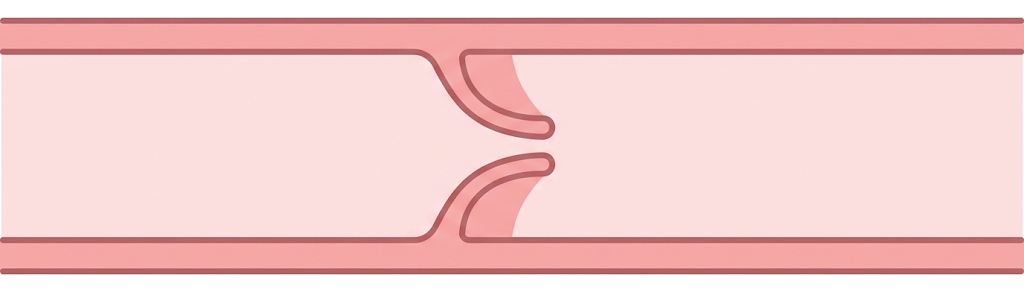
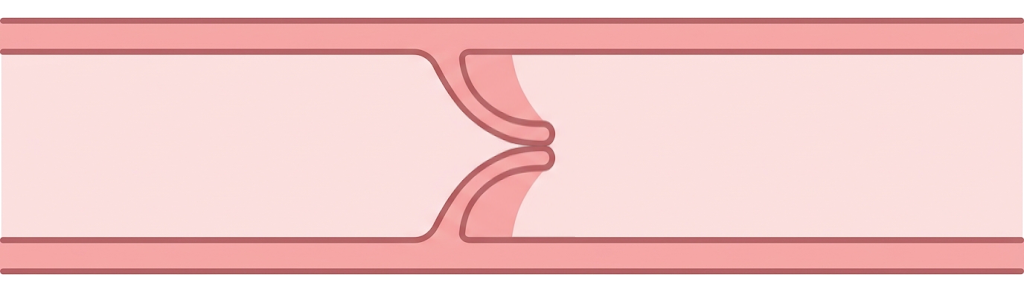
赤血球の旅・順番ならべを足す／肺静脈を肺につなぐ・④の角を血管どおりに・弁をぴったり閉じる・8画面のメニューを1280幅で1行に

Changed region(s): [[0.4375, 0.3414, 0.5625, 0.6517]]

diff --git a/index.html b/index.html
@@ -27,10 +27,13 @@ b,strong{word-break:keep-all;overflow-wrap:anywhere}
 header{display:flex;align-items:center;gap:14px;flex-wrap:wrap;padding:12px 16px 6px}
 header h1{font-family:var(--f-head);font-weight:900;font-size:1.35rem;margin:0;color:var(--gInk)}
 .steps{display:flex;gap:6px;flex-wrap:wrap;margin-left:auto}
-@media (max-width:1100px){.steps{margin-left:0}}   /* 見出しの下に回ったときは左から並べる */
+@media (max-width:1250px){.steps{margin-left:0}}   /* 見出しの下に回ったときは左から並べる */
+@media (max-width:1250px) and (min-width:861px){.fig svg,#bodySvg{max-height:calc(100vh - 175px)!important}}   /* メニューが2段目に回った分、図を低くして1画面に収める */
+@media (max-width:1010px) and (min-width:861px){.fig svg,#bodySvg{max-height:calc(100vh - 225px)!important}}   /* メニュー自体も2段になる幅 */
 .steps button{font-family:var(--f-head);font-weight:900;font-size:.95rem;border:3px solid transparent;border-radius:999px;
   background:var(--panel);color:var(--ink);padding:8px 14px;min-height:44px;cursor:pointer}
 .steps button[aria-current="step"]{border-color:var(--line)}
+@media (max-width:1400px){.steps{gap:4px} .steps button{font-size:.88rem;padding:8px 10px}}   /* 画面が8つ：1280幅でも見出しと1行に収める */
 button{transition:transform .08s}
 button:active{transform:translateY(4px)}
 button:focus-visible{outline:3px solid var(--ink);outline-offset:2px}
@@ -78,7 +81,7 @@ main{padding:6px 16px 20px}
 #heartX .narrow{display:none}
 @media (max-width:1100px){#heartX .wide{display:none} #heartX .narrow{display:inline}}
 @media (max-width:600px){
-  #circ .st1 text,#circ5 .st1 text{font-size:15px} #circ .st7 text{font-size:14px} #circ .st7 text[font-size="12"]{font-size:13.5px}}
+  #circ .st1 text,#circ5 .st1 text,#circ7 .st1 text,#circ8 .st1 text{font-size:15px} #circ .st7 text{font-size:14px} #circ .st7 text[font-size="12"]{font-size:13.5px}}
 #heartX.ph1 .ring.atrium,#heartX.ph2 .ring.atrium,#heartX.ph3 .ring.ventricle{opacity:1}
 .flow{stroke-dasharray:10 9}
 #heartX.ph1 .f1,#heartX.ph2 .f2,#heartX.ph3 .f3{animation:dash .6s linear infinite}
@@ -88,6 +91,25 @@ main{padding:6px 16px 20px}
 .c{opacity:0;transition:opacity .35s}
 .c.show{opacity:1}
 #circ.only-body .pul{opacity:.15} #circ.only-lung .sys{opacity:.15}
+/* 5 赤血球の旅・6 順番ならべ */
+.tabiNow{display:flex;align-items:center;gap:10px;flex-wrap:wrap}
+.tabiNow #tNo{font-family:var(--f-head);font-weight:900;width:34px;height:34px;border-radius:50%;background:var(--ink);color:#fff;display:grid;place-items:center}
+.tabiNow b{font-family:var(--f-head);font-weight:900;font-size:1.5rem}
+.say.gyaku{border:3px solid var(--line);margin-top:8px}
+.zoom svg{width:100%;height:auto;display:block;border-radius:12px;background:#fff}
+.zoom .note{margin-top:4px}
+.slots{list-style:none;margin:0;padding:0;display:flex;flex-wrap:wrap;gap:4px 2px;align-items:center}
+.slots li{font-size:.85rem;font-weight:700;border-radius:999px;padding:4px 9px;background:#fff;min-width:40px;text-align:center}
+.slots li.empty{background:#efe4cc;color:var(--sub)}
+.slots li:not(:last-child)::after{content:" →";color:var(--sub);font-weight:400}
+.cards{display:flex;flex-wrap:wrap;gap:8px}
+.cards button{font-family:var(--f-head);font-weight:900;font-size:1rem;border:3px solid var(--line);border-radius:12px;background:#fff;color:var(--ink);padding:10px 14px;min-height:48px;cursor:pointer}
+.cards button.ng{animation:ng .35s}
+@keyframes ng{25%{transform:translateX(-6px)}75%{transform:translateX(6px)}}
+.ringPulse{animation:ringP 1s ease-in-out infinite}
+@keyframes ringP{50%{opacity:.25}}
+.trailGlow{animation:glow 1.2s ease-in-out 2}
+@keyframes glow{50%{stroke:#ffb300;opacity:1}}
 @media (prefers-reduced-motion:reduce){*{transition:none!important;animation:none!important}}
 </style>
 </head>
@@ -99,8 +121,10 @@ main{padding:6px 16px 20px}
     <button data-go="2">2 3Dの心臓</button>
     <button data-go="3">3 心臓の断面</button>
     <button data-go="4">4 循環の図</button>
-    <button data-go="5">5 肺動脈のなぞ</button>
-    <button data-go="6">6 弁のしくみ</button>
+    <button data-go="7">5 赤血球の旅</button>
+    <button data-go="8">6 順番ならべ</button>
+    <button data-go="5">7 肺動脈のなぞ</button>
+    <button data-go="6">8 弁のしくみ</button>
   </nav>
 </header>
 <main>
@@ -231,11 +255,42 @@ main{padding:6px 16px 20px}
       <button class="ghost" data-only="lung" aria-pressed="false">肺循環だけ</button>
     </div>
     <div class="say" id="legend4" hidden><span style="display:inline-block;width:12px;height:12px;border-radius:50%;background:var(--o2);border:1.5px solid var(--ink);vertical-align:-1px"></span> 酸素　<span style="display:inline-block;width:12px;height:12px;border-radius:50%;background:var(--co2);vertical-align:-1px"></span> 二酸化炭素</div>
-    <button class="big" data-go="5">肺動脈のなぞへ →</button>
+    <button class="big" data-go="7">赤血球の旅へ →</button>
   </div>
 </section>
 
-<!-- ══════ 5 肺動脈のなぞ ══════ -->
+<!-- ══════ 5 赤血球の旅（id は s7。番号は画面の並び） ══════ -->
+<section class="screen" id="s7">
+  <div class="fig"><svg id="circ7" viewBox="0 -24 420 510" role="img" aria-label="赤血球が血液の通り道を1周する図"></svg></div>
+  <div class="side">
+    <h2>赤血球の旅</h2>
+    <div class="tabiNow"><span id="tNo">1</span><b id="tName">右心房</b><span class="tag v" id="tTag">静脈血</span></div>
+    <div class="say" id="say7"></div>
+    <div id="gyaku7" hidden>
+      <button class="ghost" id="cmpBtn">名前と中身をくらべる</button>
+      <div class="say gyaku" id="cmpBox" hidden></div>
+    </div>
+    <div class="zoom" id="zoom7" hidden><svg id="zoomSvg" viewBox="0 0 768 429" role="img" aria-label="毛細血管の拡大図"></svg><p class="note" id="zoomNote"></p></div>
+    <div class="stepper"><button class="ghost" id="prev7">◀ もどる</button><div class="dots" id="dots7"></div><button class="big" id="next7">つぎへ ▶</button></div>
+    <button class="big" id="go8" data-go="8" hidden>順番ならべに挑戦 →</button>
+  </div>
+</section>
+
+<!-- ══════ 6 順番ならべ（id は s8） ══════ -->
+<section class="screen" id="s8">
+  <div class="fig"><svg id="circ8" viewBox="0 -24 420 510" role="img" aria-label="血液の通り道の図"></svg></div>
+  <div class="side">
+    <h2>順番ならべ</h2>
+    <p>右心房から出発。<br>血液が<b>通る順</b>にカードをタップしよう。</p>
+    <ol class="slots" id="slots8"></ol>
+    <div class="say" id="say8">右心房の次は？</div>
+    <div class="cards" id="cards8"></div>
+    <div class="row"><button class="ghost" id="reset8">はじめから</button></div>
+    <button class="big" data-go="5" id="go5" hidden>肺動脈のなぞへ →</button>
+  </div>
+</section>
+
+<!-- ══════ 7 肺動脈のなぞ（id は s5） ══════ -->
 <section class="screen" id="s5">
   <div class="fig"><svg id="circ5" viewBox="0 -24 420 510" role="img" aria-label="血液の循環の図（名前つき）"></svg></div>
   <div class="side">
@@ -461,7 +516,7 @@ render3();
 const C4={
   A:  {d:'M282,268 H322 Q342,268 342,288 V405 Q342,425 322,425 H276', c:ART},  // 左心室 → 全身
   P:  {d:'M152,268 H104 Q84,268 84,248 V78 Q84,58 104,58 H146',  c:VEN},      // 右心室 → 肺
-  PV: {d:'M274,58 H316 Q336,58 336,78 V195 Q336,215 316,215 H286', c:ART},    // 肺 → 左心房
+  PV: {d:'M261,58 H316 Q336,58 336,78 V195 Q336,215 316,215 H286', c:ART},    // 肺 → 左心房
   V:  {d:'M144,425 H82 Q62,425 62,405 V235 Q62,215 82,215 H134', c:VEN},     // 全身 → 右心房
 };
 function circSvg(svg){
@@ -512,12 +567,14 @@ document.querySelectorAll('[data-only]').forEach(b=>b.onclick=()=>{ const on=b.g
   $('circ').classList.remove('only-body','only-lung'); if(on){ b.setAttribute('aria-pressed','true'); $('circ').classList.add('only-'+b.dataset.only);} });
 
 /* 赤血球と酸素：1周の道（右心房→右心室→肺→左心房→左心室→全身→右心房） */
+// 角は、描いてある血管（C4 の Q 曲線）と同じ曲がり方で通る（直線で近道すると血管から外れる）
+const Qc=(a,c,b,n=8)=>[...Array(n)].map((_,i)=>{const t=(i+1)/n,u=1-t;return [u*u*a[0]+2*u*t*c[0]+t*t*b[0], u*u*a[1]+2*u*t*c[1]+t*t*b[1]];});
 const LOOP=bake([
-  ['v',[[175,224],[175,256],[166,268],[152,268],[104,268],[84,248],[84,78],[104,58],[146,58]]],
-  ['va',[[146,58],[274,58]]],
-  ['a',[[274,58],[316,58],[336,78],[336,195],[316,215],[286,215],[256,215],[245,224],[245,256],[254,268],[282,268],[322,268],[342,288],[342,405],[322,425],[276,425]]],
+  ['v',[[175,224],[175,256],[166,268],[152,268],[104,268],...Qc([104,268],[84,268],[84,248]),[84,78],...Qc([84,78],[84,58],[104,58]),[146,58]]],
+  ['va',[[146,58],[261,58]]],
+  ['a',[[261,58],[316,58],...Qc([316,58],[336,58],[336,78]),[336,195],...Qc([336,195],[336,215],[316,215]),[286,215],[256,215],[245,224],[245,256],[254,268],[282,268],[322,268],...Qc([322,268],[342,268],[342,288]),[342,405],...Qc([342,405],[342,425],[322,425]),[276,425]]],
   ['av',[[276,425],[144,425]]],
-  ['v',[[144,425],[82,425],[62,405],[62,235],[82,215],[134,215],[164,215],[175,224]]],
+  ['v',[[144,425],[82,425],...Qc([82,425],[62,425],[62,405]),[62,235],...Qc([62,235],[62,215],[82,215]),[134,215],[164,215],[175,224]]],
 ]);
 const RBC=[...Array(14)].map((_,i)=>({d:i*LOOP.total/14}));
 let flowOn=true;
@@ -549,7 +606,127 @@ $('flowBtn').onclick=()=>{flowOn=!flowOn; $('flowBtn').setAttribute('aria-presse
   requestAnimationFrame(tick);
 })();
 
-/* ══════ 5 肺動脈のなぞ ══════ */
+/* ══════ 5 赤血球の旅・6 順番ならべ（図は④と同じ。拡大図の絵は Gemini で生成 2026-10-28、粒だけここで動かす） ══════ */
+const TABI=[
+  {nm:'右心房', p:[175,224], b:'v', say:'旅のスタート。<br>全身の細胞に酸素をわたして、<span class="nw">もどってきた</span>ところ。酸素が少ない<b class="v">静脈血</b>。'},
+  {nm:'右心室', p:[175,256], b:'v', say:'右心房から、下の部屋へ。<br>ここから<b>肺</b>へ送り出される。'},
+  {nm:'肺動脈', p:[84,150], b:'v', gyaku:true, say:'右心室から<b>出て</b>、肺へ向かう血管。<br>この血管の<b>名前</b>と、中を流れる<b>血液</b>をくらべてみよう。',
+    cmp:'名前：肺<b class="a">動脈</b>（心臓から<b>出る</b>血管）<br>中身：<b class="v">静脈血</b>（酸素が<b>少ない</b>）<br><b>名前と中身が逆！</b>'},
+  {nm:'肺', p:[262,58], b:'a', zoom:'lung', say:'肺の<b>肺胞</b>のまわりの毛細血管で、<b>二酸化炭素を出し</b>、<b>酸素を受けとる</b>。<br>ここで<b class="a">動脈血</b>に変わる。'},
+  {nm:'肺静脈', p:[336,140], b:'a', gyaku:true, say:'肺から心臓へ<b>もどる</b>血管。<br>この血管の<b>名前</b>と、中を流れる<b>血液</b>をくらべてみよう。',
+    cmp:'名前：肺<b class="v">静脈</b>（心臓に<b>もどる</b>血管）<br>中身：<b class="a">動脈血</b>（酸素が<b>多い</b>）<br><b>こちらも名前と中身が逆！</b>'},
+  {nm:'左心房', p:[245,224], b:'a', say:'肺から<span class="nw">もどって</span>、左の上の部屋へ。'},
+  {nm:'左心室', p:[245,256], b:'a', say:'かべがいちばん厚い部屋。<br>強い力で<b>全身</b>へ送り出す。'},
+  {nm:'動脈', p:[342,350], b:'a', say:'左心室から<b>出て</b>、全身へ向かう血管。<br>酸素が多い<b class="a">動脈血</b>が流れる。'},
+  {nm:'全身の細胞', card:'全身', p:[150,425], b:'v', zoom:'cells', say:'全身の毛細血管で、細胞に<b>酸素をわたし</b>、<b>二酸化炭素を受けとる</b>。<br>ここで<b class="v">静脈血</b>に変わる。'},
+  {nm:'静脈', p:[62,320], b:'v', say:'全身から心臓へ<b>もどる</b>血管。<br>酸素が少ない<b class="v">静脈血</b>が流れる。'},
+  {nm:'右心房', p:[175,224], b:'v', say:'右心房に<span class="nw">もどってきた！</span> これで1周。<br>1周するあいだに、血液は<b>心臓を2回</b>通った。'},
+];
+(function(){ const near=([x,y])=>{let best=0,bd=1e9; for(let d=0;d<LOOP.total;d+=.5){const q=posAt(LOOP,d),e=Math.hypot(q.x-x,q.y-y); if(e<bd){bd=e;best=d;}} return best;};
+  TABI.forEach((s,i)=>s.d=i===TABI.length-1?LOOP.total:near(s.p)); })();
+const isOxy=q=>q.kind==='a'||(q.kind==='va'&&q.u>.5)||(q.kind==='av'&&q.u<.5);
+
+/* ④の図に、通った道（黄色）・いまの赤血球・場所の名前・光る輪を重ねる */
+function tabiFig(svg){
+  circSvg(svg); svg.querySelectorAll('.c').forEach(e=>e.classList.toggle('show',!e.classList.contains('st7')));
+  const mk=(tag,at)=>{const e=document.createElementNS(NS,tag); for(const k in at) e.setAttribute(k,at[k]); return e;};
+  const trail=mk('path',{fill:'none',stroke:'#ffd84a','stroke-width':16,'stroke-linecap':'round','stroke-linejoin':'round',opacity:.75});
+  svg.insertBefore(trail,svg.querySelector('defs').nextSibling);
+  const ring=mk('circle',{r:21,fill:'none',stroke:'#2b2118','stroke-width':3.5,'stroke-dasharray':'6 5',class:'ringPulse'}); ring.style.display='none';
+  const cell=mk('g',{}); cell.innerHTML='<circle r="12" stroke-width="2.6"/><circle class="o" r="3.8" cx="-4" cy="-3.5" fill="#fff" stroke="#2b2118" stroke-width="1"/><circle class="o" r="3.8" cx="4.5" cy="3" fill="#fff" stroke="#2b2118" stroke-width="1"/>';
+  const lab=mk('g',{}); lab.innerHTML='<rect rx="9" height="26" fill="#fff" stroke="#2b2118" stroke-width="2"/><text class="lbl" font-size="15" text-anchor="middle" y="18"></text>';
+  svg.append(ring,cell,lab);
+  let d=0, anim=null;
+  function trailTo(dd){ if(dd<=0){trail.setAttribute('d','');return;} const pts=[]; for(let s=0;s<dd;s+=3){const q=posAt(LOOP,s); pts.push(q.x.toFixed(1)+','+q.y.toFixed(1));}
+    const e=posAt(LOOP,Math.min(dd,LOOP.total-.01)); pts.push(e.x.toFixed(1)+','+e.y.toFixed(1)); trail.setAttribute('d','M'+pts.join('L')); }
+  function draw(dd,name){ if(name&&/心[房室]$/.test(name)) name=null;   // 4つの部屋は図に名前が書いてあるので、名札は出さない
+    const q=posAt(LOOP,Math.min(dd,LOOP.total-.01)), col=colorOf(q);
+    cell.setAttribute('transform',`translate(${q.x.toFixed(1)},${q.y.toFixed(1)})`); cell.firstChild.setAttribute('fill',col); cell.firstChild.setAttribute('stroke',mix(col,'#000000',.55));
+    cell.querySelectorAll('.o').forEach(o=>o.style.display=isOxy(q)?'':'none');
+    lab.style.display=name?'':'none';
+    if(name){ const w=name.length*15+18, x=Math.max(w/2+2,Math.min(418-w/2,q.x)), y=q.y<40?q.y+18:q.y-46;
+      lab.querySelector('rect').setAttribute('x',x-w/2); lab.querySelector('rect').setAttribute('y',y); lab.querySelector('rect').setAttribute('width',w);
+      const t=lab.querySelector('text'); t.setAttribute('x',x); t.setAttribute('y',y+19); t.textContent=name; } }
+  function set(dd,name){ if(anim){cancelAnimationFrame(anim);anim=null;} d=dd; draw(d,name); trailTo(d); }
+  function moveTo(to,name,done,speed=230){ if(anim){cancelAnimationFrame(anim);anim=null;}
+    const from=d, dur=Math.max(.5,Math.abs(to-from)/speed)*1000;
+    if(reduce||to===from){ set(to,name); done&&done(); return; }
+    let t0=null; const ease=k=>k<.5?2*k*k:1-Math.pow(-2*k+2,2)/2;
+    const f=ts=>{ if(t0===null)t0=ts; const k=Math.min(1,(ts-t0)/dur); d=from+(to-from)*ease(k); draw(d,null); trailTo(d);
+      if(k<1) anim=requestAnimationFrame(f); else { anim=null; d=to; draw(d,name); done&&done(); } };
+    anim=requestAnimationFrame(f); }
+  function ringAt(dd){ if(dd===null){ring.style.display='none';return;} const q=posAt(LOOP,Math.min(dd,LOOP.total-.01)); ring.setAttribute('cx',q.x); ring.setAttribute('cy',q.y); ring.style.display=''; }
+  function glow(){ trail.classList.remove('trailGlow'); void trail.getBBox(); trail.classList.add('trailGlow'); }
+  return {set,moveTo,ringAt,glow,get busy(){return !!anim}};
+}
+
+/* ── 5 赤血球の旅 ── */
+const F7=tabiFig($('circ7'));
+let t7=0;
+function render7(){ const s=TABI[t7], last=t7===TABI.length-1;
+  $('tNo').textContent=last?'◎':t7+1; $('tName').textContent=s.nm;
+  $('tTag').className='tag '+s.b; $('tTag').textContent=s.b==='a'?'動脈血':'静脈血'; $('tTag').hidden=!!s.gyaku;   // 逆の血管は「くらべる」まで答えを出さない
+  $('say7').innerHTML=s.say;
+  $('gyaku7').hidden=!s.gyaku; $('cmpBox').hidden=true; $('cmpBtn').hidden=false;
+  $('zoom7').hidden=!s.zoom; zoomKind=s.zoom||null;
+  if(s.zoom) $('zoomNote').innerHTML=(s.zoom==='lung'?'肺胞のまわりの毛細血管を大きくした図。':'全身の細胞のまわりの毛細血管を大きくした図。')+'<br><span style="display:inline-block;width:11px;height:11px;border-radius:50%;background:#fff;border:1.5px solid var(--ink);vertical-align:-1px"></span> 酸素　<span style="display:inline-block;width:11px;height:11px;border-radius:50%;background:var(--co2);vertical-align:-1px"></span> 二酸化炭素';
+  $('dots7').innerHTML=TABI.map((_,i)=>`<i class="${i<=t7?'on':''}"></i>`).join('');
+  $('prev7').disabled=t7===0; $('next7').hidden=last; $('go8').hidden=!last; $('next7').disabled=false; }
+$('next7').onclick=()=>{ if(t7>=TABI.length-1||F7.busy) return; t7++; $('next7').disabled=true; $('say7').innerHTML='……';
+  $('gyaku7').hidden=true; $('zoom7').hidden=true; zoomKind=null;
+  F7.moveTo(TABI[t7].d,TABI[t7].nm,()=>{ render7(); if(t7===TABI.length-1) F7.glow(); }); };
+$('prev7').onclick=()=>{ if(t7===0) return; t7--; F7.set(TABI[t7].d,TABI[t7].nm); render7(); };
+$('cmpBtn').onclick=()=>{ $('cmpBox').innerHTML=TABI[t7].cmp; $('cmpBox').hidden=false; $('cmpBtn').hidden=true; $('tTag').hidden=false; };
+
+/* 拡大図：毛細血管の中を赤血球が通り、酸素と二酸化炭素が出入りする（絵の座標 768×429） */
+let zoomKind=null;
+(function(){
+  const svg=$('zoomSvg'), img=document.createElementNS(NS,'image'); img.setAttribute('width',768); img.setAttribute('height',429); svg.appendChild(img);
+  const gP=document.createElementNS(NS,'g'), gC=document.createElementNS(NS,'g'); svg.append(gP,gC);
+  gC.innerHTML='<circle r="30" stroke-width="4"/><circle class="o" r="9" cx="-10" cy="-8" fill="#fff" stroke="#2b2118" stroke-width="2"/><circle class="o" r="9" cx="11" cy="7" fill="#fff" stroke="#2b2118" stroke-width="2"/><circle class="co" r="9" cx="-9" cy="9" fill="#7a7068"/><circle class="co" r="9" cx="12" cy="-6" fill="#7a7068"/>';
+  const Y={lung:360,cells:159}, X0=-40, X1=808, MID=384;
+  let x=X0, kind=null, last=performance.now(), fired=false; const free=[];
+  function puff(x1,y1,x2,y2,o2){ const c=document.createElementNS(NS,'circle'); c.setAttribute('r',9); c.setAttribute('fill',o2?'#fff':'#7a7068'); if(o2){c.setAttribute('stroke','#2b2118');c.setAttribute('stroke-width',2);} gP.appendChild(c); free.push({c,x1,y1,x2,y2,t:0}); }
+  function tick(ts){ const dt=Math.min(.05,(ts-last)/1000); last=ts;
+    if(zoomKind!==kind){ kind=zoomKind; x=X0; fired=false; free.splice(0).forEach(f=>f.c.remove()); if(kind) img.setAttribute('href',kind==='lung'?'zoom_lung.png':'zoom_cells.png'); }
+    if(kind && cur===7){ const y=Y[kind];
+      if(!reduce){ x+=150*dt; if(x>X1){x=X0;fired=false;} }
+      else x=MID+60;
+      const k=Math.max(0,Math.min(1,(x-MID+60)/120)), col=kind==='lung'?mix(VEN,ART,k):mix(ART,VEN,k), oxy=kind==='lung'?k>.5:k<.5;
+      if(!fired && x>=MID-40 && !reduce){ fired=true;
+        if(kind==='lung'){ puff(x+10,y-8,x+30,y-120,false); puff(x+40,y-8,x+70,y-110,false); puff(x-20,y-130,x+60,y-8,true); puff(x+20,y-120,x+90,y+6,true); }
+        else { puff(x+10,y+8,x+20,y+120,true); puff(x+40,y+6,x+80,y+130,true); puff(x-30,y+120,x+60,y+8,false); puff(x+10,y+130,x+95,y-4,false); } }
+      gC.setAttribute('transform',`translate(${x.toFixed(1)},${y})`); gC.firstChild.setAttribute('fill',col); gC.firstChild.setAttribute('stroke',mix(col,'#000000',.55));
+      gC.querySelectorAll('.o').forEach(o=>o.style.display=oxy?'':'none'); gC.querySelectorAll('.co').forEach(o=>o.style.display=oxy?'none':'');
+      for(let i=free.length-1;i>=0;i--){ const f=free[i]; f.t+=dt/1.3; const e=Math.min(1,f.t);
+        f.c.setAttribute('cx',f.x1+(f.x2-f.x1)*e); f.c.setAttribute('cy',f.y1+(f.y2-f.y1)*e); f.c.setAttribute('opacity',1-Math.max(0,e-.8)/.2);
+        if(f.t>=1){f.c.remove();free.splice(i,1);} } }
+    requestAnimationFrame(tick); }
+  requestAnimationFrame(tick);
+})();
+F7.set(0,TABI[0].nm); render7();
+
+/* ── 6 順番ならべ ── */
+const F8=tabiFig($('circ8'));
+let k8=0;
+const shuffle=a=>{ let b; do{ b=[...a].sort(()=>Math.random()-.5); }while(b.every((v,i)=>v===a[i])); return b; };
+function slots8(){ $('slots8').innerHTML=TABI.map((s,i)=>i===0||i<=k8?`<li>${s.card||s.nm}</li>`:'<li class="empty">？</li>').join(''); }
+function reset8(){ k8=0; F8.set(0,TABI[0].nm); F8.ringAt(null); $('go5').hidden=true; $('say8').innerHTML='<b>右心房</b>の次は？';
+  const names=TABI.slice(1,TABI.length-1).map(s=>s.card||s.nm);
+  $('cards8').innerHTML=shuffle(names).map(n=>`<button>${n}</button>`).join('');
+  $('cards8').querySelectorAll('button').forEach(b=>b.onclick=()=>pick8(b)); slots8(); }
+function pick8(btn){ if(F8.busy||k8>=TABI.length-2) return; const want=TABI[k8+1], name=btn.textContent;
+  if(name===(want.card||want.nm)){ k8++; btn.hidden=true; F8.ringAt(null); slots8();
+    F8.moveTo(want.d,want.nm,()=>{ if(k8===TABI.length-2) finish8(); else $('say8').innerHTML=`<b>${want.card||want.nm}</b>の次は？`; }); }
+  else { btn.classList.remove('ng'); void btn.offsetWidth; btn.classList.add('ng'); F8.ringAt(want.d);
+    $('say8').innerHTML=`「${name}」ではないよ。<br><b>${TABI[k8].card||TABI[k8].nm}</b>から進んだ先、図の<b>光っている所</b>は何だろう？`; } }
+function finish8(){ k8=TABI.length-1; slots8(); const end=TABI[TABI.length-1];
+  F8.moveTo(end.d,end.nm,()=>{ F8.glow(); F8.set(0,null); F8.moveTo(LOOP.total,end.nm,null,520);
+    $('say8').innerHTML='全部そろった！<br>血液は<b>心臓を2回</b>通って、からだを1周する。'; $('go5').hidden=false; }); }
+$('reset8').onclick=reset8;
+reset8();
+
+/* ══════ 7 肺動脈のなぞ ══════ */
 $('hint1').onclick=()=>{ $('hintBox').hidden=false; $('hintBox').innerHTML='ヒント1：「<b>動脈・静脈</b>」は<b>血管</b>の名前。何で決まる？（心臓から出る？ もどる？）'; };
 $('hint2').onclick=()=>{ $('hintBox').hidden=false; $('hintBox').innerHTML='ヒント2：「<b>動脈血・静脈血</b>」は<b>血液</b>の名前。何で決まる？（酸素が多い？ 少ない？）'; };
 $('ansBtn').onclick=()=>{ const open=$('ansBox').hidden; $('ansBox').hidden=!open; $('ask5').hidden=open; $('hintRow').hidden=open; if(open) $('hintBox').hidden=true;
@@ -558,7 +735,7 @@ $('ansBtn').onclick=()=>{ const open=$('ansBox').hidden; $('ansBox').hidden=!ope
 /* 検査用 */
 /* ══════ 6 弁のしくみ（絵は Gemini。粒の動きと絵の切りかえだけをここで動かす） ══════ */
 (function(){
-  const Y1=194, Y2=378, YC=288, R=14, BAR=[[196, 511], [200, 512], [204, 513], [208, 514], [212, 515], [216, 517], [220, 518], [224, 520], [228, 522], [232, 525], [236, 527], [240, 530], [244, 533], [248, 536], [252, 540], [256, 548], [260, 552], [264, 554], [268, 555], [272, 554], [276, 551], [280, 554], [284, 554], [288, 554], [292, 546], [296, 552], [300, 554], [304, 555], [308, 554], [312, 552], [316, 546], [320, 539], [324, 535], [328, 532], [332, 529], [336, 526], [340, 524], [344, 522], [348, 520], [352, 518], [356, 516], [360, 515], [364, 514], [368, 513], [372, 512], [376, 511]];
+  const Y1=194, Y2=378, YC=288, R=14, BAR=[[196, 511], [200, 512], [204, 513], [208, 514], [212, 515], [216, 516], [220, 517], [224, 519], [228, 521], [232, 523], [236, 525], [240, 527], [244, 530], [248, 533], [252, 536], [256, 539], [260, 546], [264, 551], [268, 554], [272, 555], [276, 554], [280, 553], [284, 550], [288, 551], [292, 554], [296, 555], [300, 554], [304, 553], [308, 550], [312, 542], [316, 538], [320, 535], [324, 532], [328, 529], [332, 527], [336, 524], [340, 522], [344, 520], [348, 519], [352, 517], [356, 516], [360, 515], [364, 514], [368, 513], [372, 512], [376, 574]];
   let mode='fwd', none=false, auto=null, last=null, spawnT=0;
   const dots=[], g=$('vDots');
   const barrierX=y=>{ let k=Math.round((y-BAR[0][0])/4); k=Math.max(0,Math.min(BAR.length-1,k)); return BAR[k][1]+R+3; };
@@ -604,7 +781,8 @@ $('ansBtn').onclick=()=>{ const open=$('ansBox').hidden; $('ansBox').hidden=!ope
   texts(); for(let i=0;i<150;i++) step(1/60); requestAnimationFrame(loop);
   window.__valve={setMode,get none(){return none},set none(v){none=v;texts()},dots,step};
 })();
-window.__lab={go,get s3(){return s3},set s3(v){s3=v;render3()},get s4(){return s4},set s4(v){s4=v;render4()},setPh,select3};
+window.__lab={go,get s3(){return s3},set s3(v){s3=v;render3()},get s4(){return s4},set s4(v){s4=v;render4()},setPh,select3,
+  get t7(){return t7},set t7(v){t7=v;F7.set(TABI[v].d,TABI[v].nm);render7()},get k8(){return k8},TABI,reset8};
 go(1);
 </script>
 </body>
